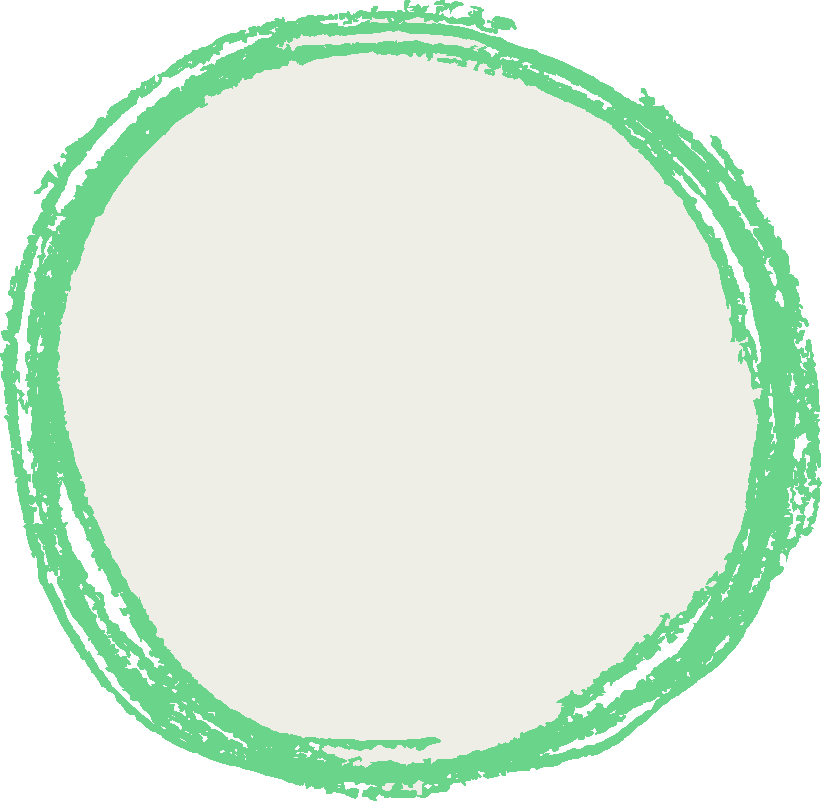
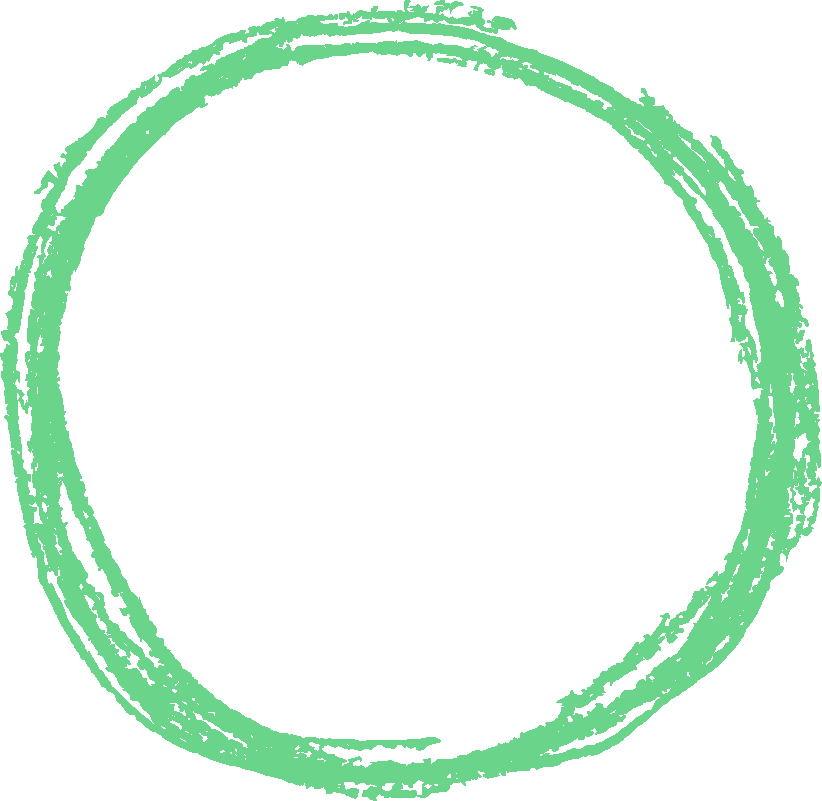
white background for resume

diff --git a/index.html b/index.html
@@ -83,7 +83,7 @@
 <!-- end section ABOUT -->
 
 <section id="resume" class="resume">
-  <div class="my-wrapper gray padding-top padding-bottom">
+  <div class="my-wrapper white padding-top padding-bottom">
     <div class="header">
       <h2>Resume</h2>
     </div>
